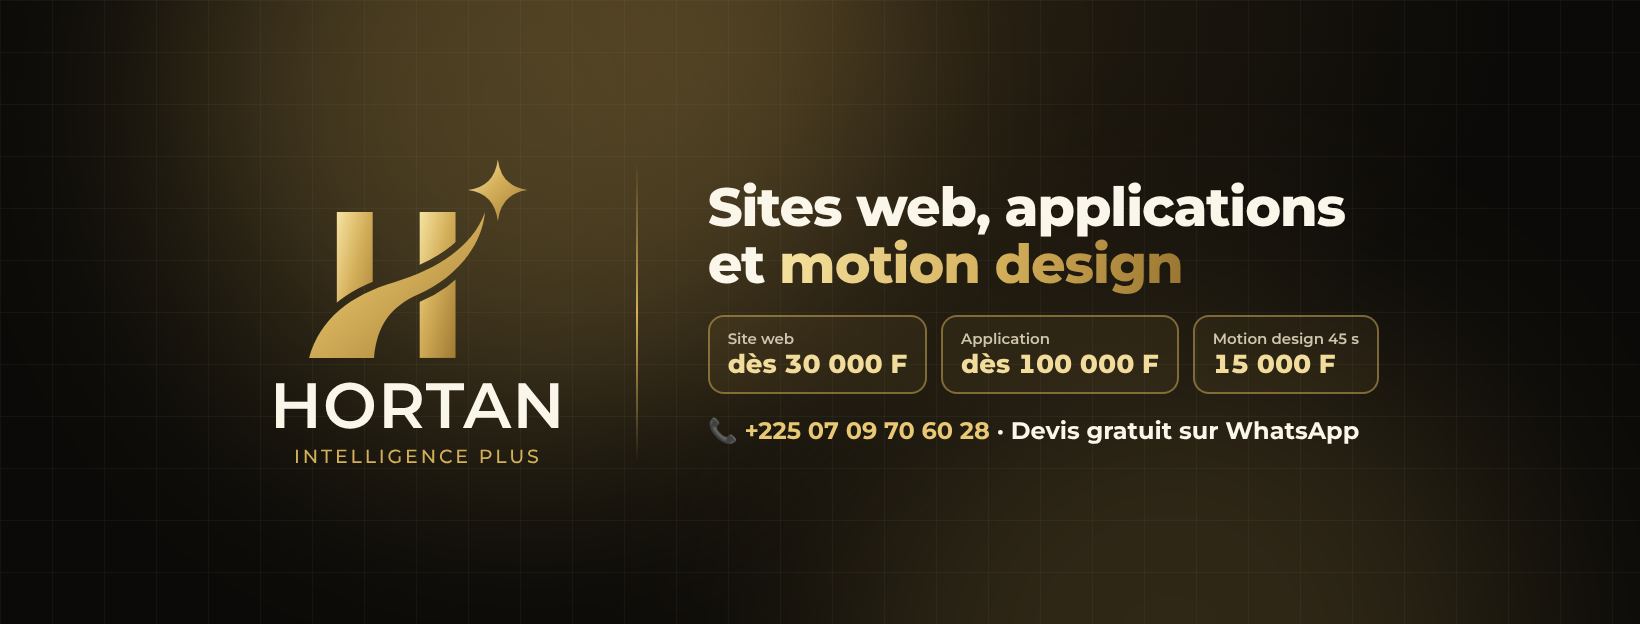
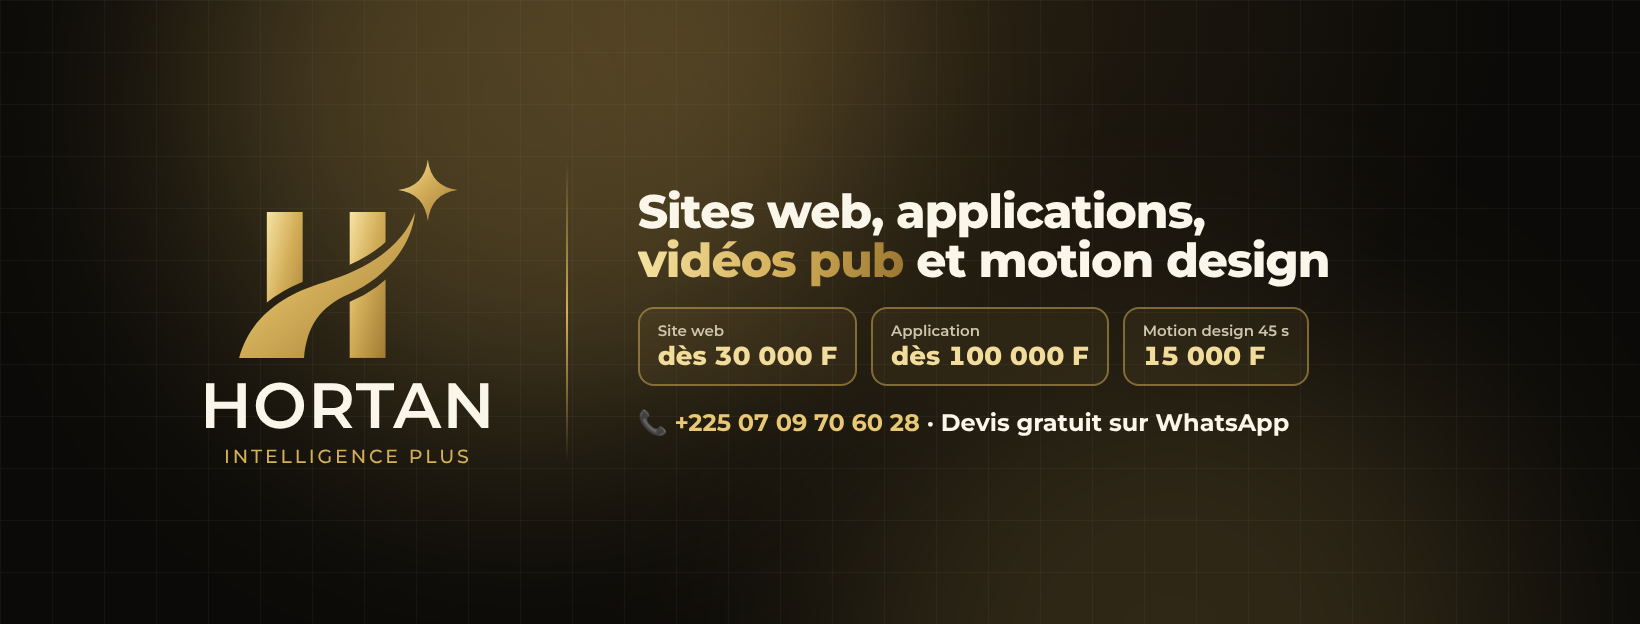
feat(marketing): ajouter le service « Vidéos publicitaires » (site, couverture Facebook, bios)
Claude-Session: https://claude.ai/code/session_01Gb3NP4nzLYtfqV2WZSCsdo

Changed region(s): [[0.3732, 0.274, 0.8396, 0.7308], [0.1244, 0.274, 0.311, 0.5785], [0.1244, 0.609, 0.3421, 0.7612]]

diff --git a/marketing/site/index.html b/marketing/site/index.html
@@ -4,9 +4,9 @@
 <meta charset="utf-8">
 <meta name="viewport" content="width=device-width, initial-scale=1, viewport-fit=cover">
 <title>Hortan Intelligence Plus</title>
-<meta name="description" content="Sites web dès 30 000 FCFA, applications mobiles dès 100 000 FCFA et vidéos motion design. Devis gratuit au +225 07 09 70 60 28.">
+<meta name="description" content="Sites web dès 30 000 FCFA, applications mobiles dès 100 000 FCFA, vidéos publicitaires et motion design. Devis gratuit au +225 07 09 70 60 28.">
 <meta property="og:title" content="Hortan Intelligence Plus">
-<meta property="og:description" content="Sites web, applications mobiles et motion design. Devis gratuit sur WhatsApp.">
+<meta property="og:description" content="Sites web, applications mobiles, vidéos publicitaires et motion design. Devis gratuit sur WhatsApp.">
 <meta property="og:image" content="pub-hortan.jpg">
 <link rel="icon" href="hortan-symbole.svg" type="image/svg+xml">
 <link rel="preconnect" href="https://fonts.googleapis.com">
@@ -83,9 +83,9 @@
   .son:hover { background: rgba(11,10,8,.95); }
 
   /* Services */
-  .services { display: grid; grid-template-columns: repeat(3, minmax(0, 1fr)); gap: 0; border-top: 1px solid var(--trait); }
-  .service { padding: 34px 30px 34px 0; display: grid; gap: 14px; align-content: start; }
-  .service + .service { padding-left: 30px; border-left: 1px solid var(--trait); }
+  .services { display: grid; grid-template-columns: repeat(4, minmax(0, 1fr)); gap: 0; border-top: 1px solid var(--trait); }
+  .service { padding: 34px 24px 34px 0; display: grid; gap: 14px; align-content: start; }
+  .service + .service { padding-left: 24px; border-left: 1px solid var(--trait); }
   .service svg { width: 40px; height: 40px; }
   .service h3 { font-size: 1.45rem; font-weight: 700; }
   .service p { margin: 0; color: var(--sable); }
@@ -95,7 +95,7 @@
 
   /* Tarifs */
   #tarifs { background: radial-gradient(80% 60% at 50% 0%, rgba(212,175,90,.10), transparent 70%); margin-inline: -20px; padding-inline: 20px; }
-  .tarifs { display: grid; grid-template-columns: repeat(3, minmax(0, 1fr)); gap: 20px; }
+  .tarifs { display: grid; grid-template-columns: repeat(2, minmax(0, 1fr)); gap: 20px; }
   .tarif { display: grid; grid-template-rows: auto auto 1fr auto; gap: 18px; padding: 30px; border-radius: var(--r); background: var(--charbon); border: 1px solid var(--trait); }
   .tarif.vedette { border-color: var(--or); box-shadow: 0 30px 70px -40px rgba(212,175,90,.6); }
   .tarif h3 { font-size: 1.15rem; font-weight: 700; }
@@ -156,6 +156,7 @@
   .wa-flottant { position: fixed; right: 18px; bottom: calc(18px + env(safe-area-inset-bottom, 0px)); z-index: 30; width: 60px; height: 60px; border-radius: 50%; background: var(--wa); display: grid; place-items: center; box-shadow: 0 12px 30px rgba(0,0,0,.45); }
   .wa-flottant svg { width: 32px; height: 32px; }
 
+  @media (max-width: 1100px) { .services { grid-template-columns: repeat(2, minmax(0, 1fr)); } .service:nth-child(3) { padding-left: 0; border-left: 0; } .service:nth-child(n+3) { border-top: 1px solid var(--trait); } }
   @media (max-width: 900px) {
     .hero .contenu, .contact { grid-template-columns: minmax(0, 1fr); }
     .menu a:not(.btn) { display: none; }
@@ -195,7 +196,7 @@
       <div>
         <div class="sur-titre">Studio digital · Côte d'Ivoire</div>
         <h1>Votre idée mérite d'exister <span class="or-txt">en ligne.</span></h1>
-        <p class="intro">Sites web, applications mobiles et vidéos motion design. Rapides, beaux, professionnels, à des prix accessibles.</p>
+        <p class="intro">Sites web, applications mobiles, vidéos publicitaires et motion design. Rapides, beaux, professionnels, à des prix accessibles.</p>
         <div class="actions">
           <a class="btn btn-or" data-wa="Bonjour Hortan, je voudrais un devis gratuit pour mon projet." href="#contact">
             <svg viewBox="0 0 24 24" fill="currentColor" aria-hidden="true"><path d="M12 2a10 10 0 0 0-8.6 15.1L2 22l5-1.3A10 10 0 1 0 12 2Zm5.4 14.1c-.2.6-1.3 1.2-1.8 1.3-.5 0-1 .2-3.2-.7-2.7-1.1-4.4-3.8-4.5-4-.1-.2-1.1-1.4-1.1-2.7 0-1.3.7-1.9.9-2.2.2-.3.5-.3.7-.3h.5c.2 0 .4 0 .6.5l.8 2c.1.2.1.4 0 .5l-.4.6-.4.4c-.1.2-.3.3-.1.6.2.3.8 1.3 1.6 2.1 1.1 1 2 1.3 2.3 1.4.3.1.5.1.6-.1l.9-1c.2-.3.4-.2.7-.1l1.9.9c.3.1.5.2.5.3.1.2.1.8-.1 1.5Z"/></svg>
@@ -242,6 +243,12 @@
           <p>Des vidéos animées qui arrêtent le scroll sur Facebook, WhatsApp et Instagram.</p>
           <ul><li>Vidéo de 45 secondes</li><li>Musique et voix off</li><li>Formats réseaux sociaux</li></ul>
         </article>
+        <article class="service">
+          <svg viewBox="0 0 24 24" fill="none" stroke="#d4af5a" stroke-width="1.6" stroke-linecap="round" stroke-linejoin="round" aria-hidden="true"><path d="M4 11h16v9H4z"/><path d="M4 11l2-6 14 3-1.5 3"/><path d="M9 6.2l2 3.6M14 7.3l2 3.4"/></svg>
+          <h3>Vidéos publicitaires</h3>
+          <p>De vraies pubs qui racontent votre histoire : personnages, mise en scène et montage.</p>
+          <ul><li>Scénario sur-mesure</li><li>Voix off et sous-titres</li><li>Pour Facebook, WhatsApp et TikTok</li></ul>
+        </article>
       </div>
     </div>
   </section>
@@ -271,6 +278,12 @@
           <div class="montant"><small>VIDÉO DE 45 S</small><span>15 000</span><em>FCFA</em></div>
           <ul><li>Animation à vos couleurs</li><li>Musique et voix off</li><li>Prête pour Facebook et WhatsApp</li></ul>
           <a class="btn btn-ligne" data-wa="Bonjour Hortan, je voudrais une vidéo motion design de 45 secondes (15 000 FCFA)." href="#contact">Choisir</a>
+        </article>
+        <article class="tarif">
+          <h3>Vidéo publicitaire</h3>
+          <div class="montant"><small>SELON LE PROJET</small><span>Sur devis</span></div>
+          <ul><li>Scénario et mise en scène</li><li>Montage, musique et voix off</li><li>Sous-titres et formats réseaux sociaux</li></ul>
+          <a class="btn btn-ligne" data-wa="Bonjour Hortan, je voudrais une vidéo publicitaire pour mon activité." href="#contact">Demander un devis</a>
         </article>
       </div>
       <div class="conditions" id="conditions">
@@ -357,7 +370,7 @@
 <footer>
   <div class="contenu">
     <span>© <span id="annee">2026</span> Hortan Intelligence Plus</span>
-    <span>Sites web · Applications · Motion design</span>
+    <span>Sites web · Applications · Vidéos pub · Motion design</span>
   </div>
 </footer>
 

diff --git a/marketing/facebook/couverture.html b/marketing/facebook/couverture.html
@@ -14,14 +14,14 @@
        background: radial-gradient(70% 120% at 50% 0%, #2b2213 0%, #0b0a08 60%); }
   .grille { position: absolute; inset: 0; background-image: linear-gradient(rgba(255,255,255,.035) 1px, transparent 1px), linear-gradient(90deg, rgba(255,255,255,.035) 1px, transparent 1px); background-size: 52px 52px; }
   .halo { position: absolute; width: 700px; height: 700px; border-radius: 50%; filter: blur(120px); opacity: .28; background: #d4af5a; }
-  .zone { position: absolute; left: 270px; right: 270px; top: 0; bottom: 0; display: flex; align-items: center; gap: 70px; }
+  .zone { position: absolute; left: 200px; right: 200px; top: 0; bottom: 0; display: flex; align-items: center; gap: 70px; }
   .logo { flex: none; display: flex; flex-direction: column; align-items: center; }
   .logo img { width: 230px; }
   .logo b { font-weight: 600; font-size: 64px; letter-spacing: .02em; line-height: 1; margin-top: 10px; }
   .logo span { font-weight: 500; font-size: 19px; letter-spacing: .15em; color: #d4af5a; margin-top: 8px; }
   .sep { width: 2px; height: 300px; background: linear-gradient(transparent, #d4af5a, transparent); flex: none; }
   .txt { display: grid; gap: 22px; min-width: 0; }
-  .txt h1 { font-weight: 800; font-size: 54px; line-height: 1.05; letter-spacing: -.02em; }
+  .txt h1 { font-weight: 800; font-size: 47px; line-height: 1.05; letter-spacing: -.02em; }
   .or { background: linear-gradient(100deg, #f6e3a1, #d4af5a 55%, #9a7530); -webkit-background-clip: text; background-clip: text; color: transparent; }
   .prix { display: flex; gap: 14px; }
   .prix div { border: 2px solid rgba(212,175,90,.5); border-radius: 16px; padding: 12px 18px; background: rgba(212,175,90,.07); }
@@ -39,7 +39,7 @@
     <div class="logo"><img src="../logo/hortan-symbole.svg" alt=""><b>HORTAN</b><span>INTELLIGENCE PLUS</span></div>
     <div class="sep"></div>
     <div class="txt">
-      <h1>Sites web, applications<br>et <span class="or">motion design</span></h1>
+      <h1>Sites web, applications,<br><span class="or">vidéos pub</span> et motion design</h1>
       <div class="prix">
         <div><small>Site web</small><b id="p1"></b></div>
         <div><small>Application</small><b id="p2"></b></div>

diff --git a/marketing/facebook/bios.md b/marketing/facebook/bios.md
@@ -1,31 +1,31 @@
 # Bios Hortan Intelligence Plus
 
 ## Facebook : bio courte (≤ 101 caractères)
-Sites web, applications mobiles et motion design en Côte d'Ivoire. Devis gratuit sur WhatsApp ✨
+Sites web, applis, vidéos publicitaires et motion design en Côte d'Ivoire. Devis gratuit ✨
 
 ## Facebook : « À propos » (description longue)
 Hortan Intelligence Plus transforme vos idées en solutions digitales qui font vendre.
 
 ✅ Sites web professionnels, adaptés au téléphone et visibles sur Google
 ✅ Applications mobiles Android et iOS, belles et simples à utiliser
-✅ Vidéos motion design qui arrêtent le scroll sur Facebook et WhatsApp
+✅ Vidéos publicitaires qui racontent votre histoire, et motion design qui arrête le scroll
 
-💰 Sites dès 30 000 FCFA · Applications dès 100 000 FCFA · Motion design 45 s : 15 000 FCFA
+💰 Sites dès 30 000 FCFA · Applications dès 100 000 FCFA · Motion design 45 s : 15 000 FCFA · Vidéo publicitaire : sur devis
 📩 Devis gratuit sur WhatsApp : +225 07 09 70 60 28
 ✉ hortanintelligence@gmail.com
 
 ## WhatsApp Business : description (≤ 512 caractères)
-Hortan Intelligence Plus : création de sites web, d'applications mobiles et de vidéos motion design en Côte d'Ivoire. Sites dès 30 000 FCFA, applications dès 100 000 FCFA, motion design 45 s à 15 000 FCFA. Décrivez-nous votre projet ici : le devis est gratuit.
+Hortan Intelligence Plus : création de sites web, d'applications mobiles, de vidéos publicitaires et de motion design en Côte d'Ivoire. Sites dès 30 000 FCFA, applications dès 100 000 FCFA, motion design 45 s à 15 000 FCFA. Décrivez-nous votre projet ici : le devis est gratuit.
 
 ## WhatsApp Business : message d'accueil automatique
 Bonjour et bienvenue chez Hortan Intelligence Plus ✨
-Dites-nous ce que vous souhaitez créer (site web, application ou vidéo motion design) et votre budget : on vous répond rapidement avec un devis gratuit.
+Dites-nous ce que vous souhaitez créer (site web, application, vidéo publicitaire ou motion design) et votre budget : on vous répond rapidement avec un devis gratuit.
 
 ## WhatsApp Business : message d'absence
 Merci pour votre message ! Nous sommes momentanément indisponibles et vous répondons dès que possible. Décrivez votre projet en quelques mots en attendant.
 
 ## Instagram : bio (≤ 150 caractères)
-✨ Sites web · Applications · Motion design
+✨ Sites web · Applis · Vidéos pub · Motion design
 🇨🇮 Côte d'Ivoire
 💰 Sites dès 30 000 F
 📩 Devis gratuit 👇
